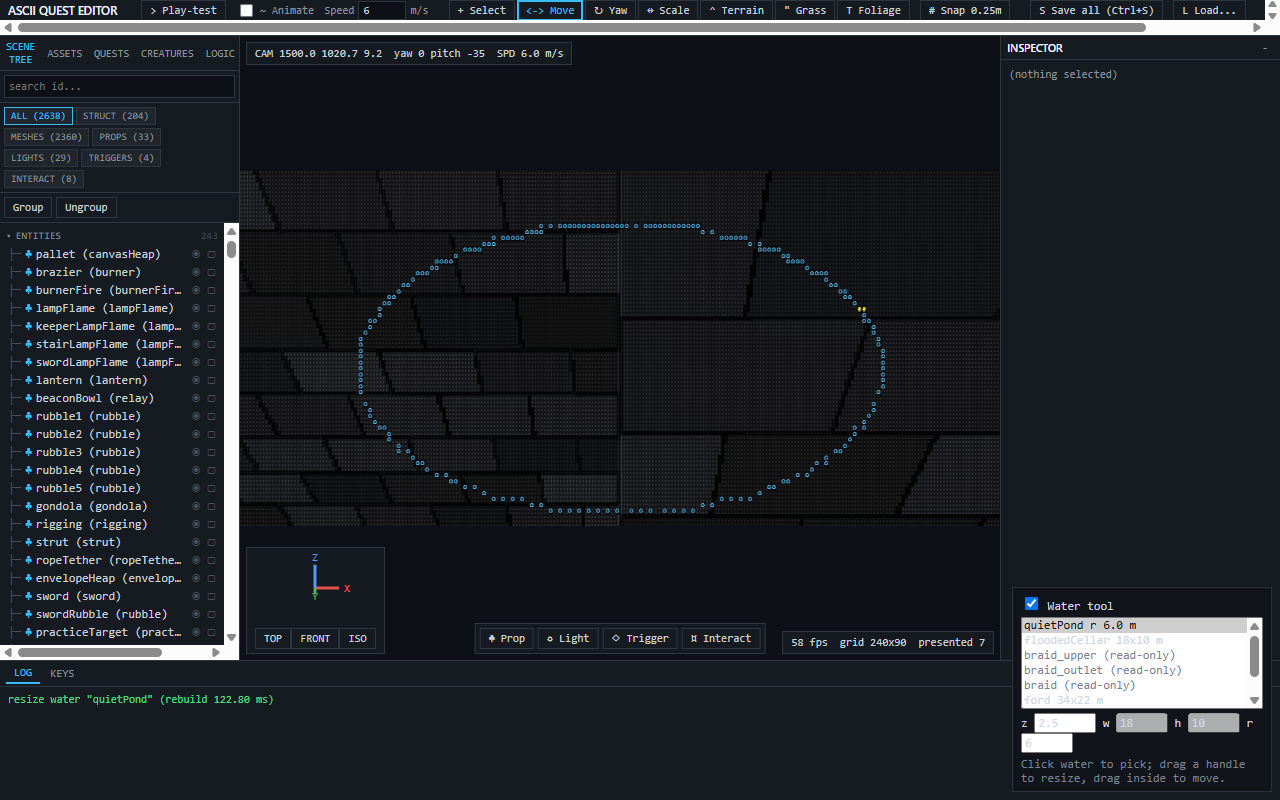
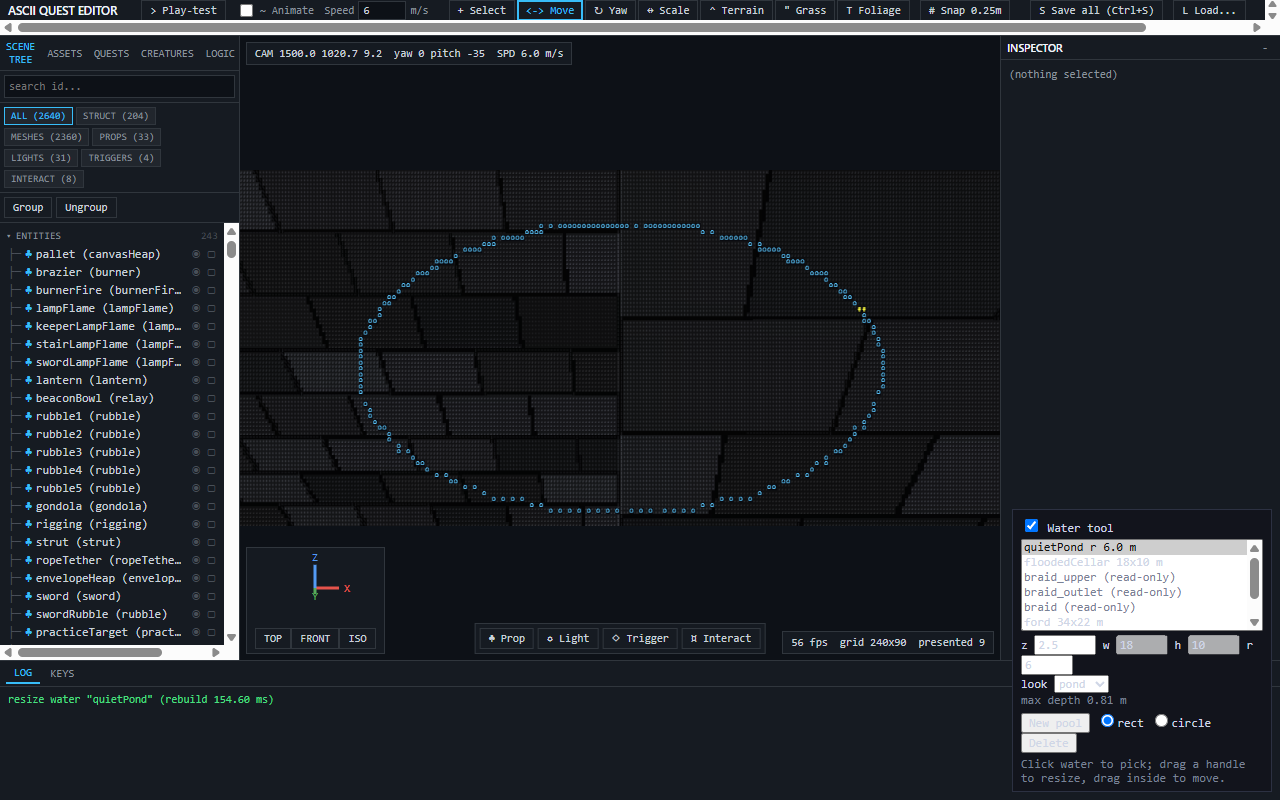
docs: PC-B arch batch (7 OK, 2 changes fixed) + PO batch (19 OK) 2026-10-17, verify stills

Changed region(s): [[0.7812, 0.625, 1.0, 0.9375]]

diff --git a/docs/test-reports/po-batch-2026-10-17-pcb.md b/docs/test-reports/po-batch-2026-10-17-pcb.md
@@ -1,0 +1,21 @@
+# PO batch verdicts - PC-B, 2026-10-17 (sonnet, D-066, claims-only)
+
+1. GRASS-VARIETY-01: PO OK -> testing. Walk: meadows show 3 patch types (low clover with '*' tips, normal, tall '!' seed heads), patches >= ~6 m, no speckle. Owner to-do: `node tools/verify-grassvar.mjs {port}` stills + look/ramp tuning (browser-only).
+2. OB-171 VoxelPool priority: PO OK -> testing. Walk: crowd town (Burl), nearby NPCs/enemies never vanish while far props draw; no cap warning for near ones.
+3. GOB-INVIS enemy bar: PO OK -> testing. Walk: at the OB-218 F3 spot (1091,1083,-79.7) no `Lv 4 Gobl` bar over empty grass. Owner to-do: per-record dump + underwater check not done.
+4. OB-166/OB-014 tolerant load: PO OK -> testing. Walk: game still loads; a bad model id gives one console warn, no crash (strict kept in lint).
+5. TEASER-QA-06 coast LOD: PO OK -> testing (AC deviations accepted by arch: radius 60, jump 55.43 m cliff). Walk: `node tools/teaser-stills.mjs --port {port} --ids teaser-strand-dawn` and judge the coast stairs. NOTE: commit only on k1/coastlod, must be merged to pc-b first.
+6. OB-215 Burl legs: PO OK -> testing. Walk: watch Burl walk home within 35 m; legs animate. Probe `node tools/probe-burl-legs.mjs {port}` (189/189 frames).
+7. OB-220b accept facts + Lamps on the Verge zone: PO OK -> testing. Walk: accept "Lamps on the Verge" from Joss: quest must not finish at once; walk to the lamps (zone r 14). Owner to-do: check lamp positions vs r 14 in game.
+8. OB-221 journal Main/Side: PO OK -> testing. Walk: J shows gold "Main" and blue "Side" headings, main first; headings not selectable. Also confirm Enter-after-tap input fix (ob221b) on 8000. Browser look not checked.
+9. OB-219 abandon by mouse: PO OK -> testing. Walk: J, click Abandon on sq.packet (click-click) -> quest returns to available, pin cleared. Owner to-do: check the new 400x150 intro slide overlay look.
+10. OB-217 fireball out of the pack: PO OK -> testing. Walk: new game pack has no locked fireball; unlock magic -> fireball lands in off hand; load an old save, stray cell gone. Node only, browser unverified.
+11. OB-223 + ED-WATER-02 editor water tool: PO OK -> testing. Walk: editor Water tool: select/resize a pool, New pool, Delete (2-click), undo each. Owner to-do: `node tools/verify-editor-water.mjs {port}` (browser path never run).
+12. ED-QUI-10 branch edit: PO OK -> testing. Walk: quest editor dialogue: edit choice text (n/38), GOTO select, flag; dangling GOTO refused. Owner to-do: `node tools/verify-edqui-10.mjs {port}`; CSS for .q-btext-in/.q-bgoto/.q-bflag untuned (cosmetic).
+13. ED-QUI-09 quest-sim --all: PO OK -> testing. Walk: `node tools/quest-sim.mjs --all` -> `88 quest(s): 88 PASS, 0 FAIL`, exit 1 on a broken fixture.
+14. QUEST-WRITER-BATCH-01 (R19 119 -> 0): PO OK -> testing (main session correction: writer batches 1-3 landed, R19_ALLOW empty, validate-content R19 0 hits; the PO read a stale lane entry). Walk: open J, every journal line fits one row.
+15. OB-155 lint + VISQA-13 interior moss: PO OK -> testing. Walk: crypt, ford cellar, goblin tunnel, bear den have no green moss on rocks/pebbles. R2 3 -> 0 and R1=0 accepted. Open, not blockers: R9 left 3 (wardens) plus the ow chain in R9_OK (PO confirms: accepted, wolves at band 6 are fine); R17 m1 legacy.
+16. OB-142 ford boars: PO OK -> testing. Walk: go down to the ford by normal start (not a ?at link): >= 3 boars within ~60 m (rule fordBoars).
+17. VISQA-28 sea cave lights: PO OK -> testing, with caveat. Walk: strand_cave shows two low raking lights. Owner to-do: GI zone g4_9 is stale (needs tools/bake-gi.mjs, not run) and stills `node tools/verify-visqa12-28-08.mjs {port}` not run; also check for the "MAX_LIGHTS reached" warning.
+18. OB-214 falls pool: PO OK -> testing. Walk: `node tools/teaser-stills.mjs --port {port} --ids teaser-river-falls`: waterfall sheet no wider than the pool, east edge no longer lands on grass. Owner decides (a) vs (b); GI for the zone stale.
+19. REPORT-KEY-01 F8 snapshot: PO OK -> testing. Walk: press F8 in game: toast "Bug snapshot copied", paste shows `KESTREL ... pos ... | clock | quality ...`. Browser path unrun; debug god mode moved to Shift+F8.

diff --git a/docs/test-reports/visqa/index.md b/docs/test-reports/visqa/index.md
@@ -8,7 +8,7 @@
 | meadow-road | 1440,1040 yaw 270 pitch 0 - start meadow, road west | - | - | - |
 | forest-in | 1250,1062 yaw 270 pitch 0 - densest tree cell (41..42,35) | - | - | - |
 | forest-edge | 1172,1044 yaw 90 pitch 0 - QL-B2 forestEdge zone, looking into the forest | - | - | - |
-| ford | 1010,1072 yaw 90 pitch 0 - fordWest, across the stepping stones | - | - | - |
+| ford | 1010,1072 yaw 90 pitch 0 - fordWest, across the stepping stones | ![ford-09.png](ford-09.png) | ![ford-13.png](ford-13.png) | - |
 | bend | 1262,1042 yaw 0 pitch 0 - Bend relay/waystone | - | - | - |
 | cemetery | 1644,1382 yaw 0 pitch 0 - cemetery1 | - | - | - |
 | braid-falls | 1238,632 yaw 0 pitch 12 - braidFalls from below | - | - | - |
@@ -28,11 +28,11 @@
 | ![s2-sea-cave.png](s2-sea-cave.png) | 1618.5,1729.5 z -95.31 (now -95.31) yaw 0 | Strand sea cave chamber from the south mouth |
 | ![s2-goblin-tunnel.png](s2-goblin-tunnel.png) | 944.5,945.5 z -88.8 (now -88.8) yaw 315 | VISQA-31: goblin tunnel room from its SE corner (level 21,31.5) looking NW at torchRoom (level 16.5,27.5) |
 | ![s2-bear-den.png](s2-bear-den.png) | 1584,437 z 11.76 (now 11.76) yaw 0 | northwood bear den chamber from the mouth side (no lights in level) |
-| ![s2-burl.png](s2-burl.png) | in place, camera 1474,1028,2,255 model bear yaw 75 at 1471.0,1029.1 z 2.4 | Burl (npc bear) |
-| ![s2-rook.png](s2-rook.png) | in place, camera 982,1057,-86,180 model crow yaw 270 at 982.0,1060.0 z -86.4 | Rook (perched crow, on the Ford ruin crate; seen from the side, his front faces the ruin wall) |
+| ![s2-burl.png](s2-burl.png) | in place, camera 1474,1028,0,255 model bear yaw 75 at 1471.0,1029.1 z 2.4 | Burl (npc bear) |
+| ![s2-rook.png](s2-rook.png) | in place, camera 979,1060,-87,90 model crow yaw 270 at 982.0,1060.0 z -86.4 | Rook (perched crow, on the Ford ruin crate; seen from the side, his front faces the ruin wall) |
 | ![s2-warden.png](s2-warden.png) | model char.kit cam 1440.0,1040.0 subject 1436.5,1040.0 z 1.3 yaw 90 (home 1669,629,-50,141) | region warden (char.kit) |
-| ![s2-boar.png](s2-boar.png) | model boarPlaceholder cam 1440.0,1040.0 subject 1436.5,1040.0 z 1.3 yaw 90 (home 1457,1033,2,46) | first boar |
-| ![s2-wolf.png](s2-wolf.png) | in place, camera 863,1004,-75,301 model wolf yaw 121 at 860.4,1002.2 z -75.2 | first wolf (brain.species wolf / model wolf); wolves live ~600 m west, unbound far from the player, so the camera goes to the wolf |
+| ![s2-boar.png](s2-boar.png) | model boarPlaceholder cam 1440.0,1040.0 subject 1436.5,1040.0 z 1.3 yaw 90 (home 1459,1029,2,152) | first boar |
+| ![s2-wolf.png](s2-wolf.png) | in place, camera 858,997,0,301 model wolf yaw 121 at 855.5,994.8 z -75.2 | first wolf (brain.species wolf / model wolf); wolves live ~600 m west, unbound far from the player, so the camera goes to the wolf |
 | ![s2-skeleton.png](s2-skeleton.png) | model skeleton cam 1440.0,1040.0 subject 1436.5,1040.0 z 1.3 yaw 90 (home 1738,202,211,0) | first surface skeleton (crypt ones do not render when pinned to the meadow) |
 | ![s2-ui-inventory.png](s2-ui-inventory.png) | KeyI | pack (I) |
 | ![s2-ui-character.png](s2-ui-character.png) | KeyC | character / equipment (C) |

diff --git a/docs/test-reports/arch-batch-2026-10-17-pcb.md b/docs/test-reports/arch-batch-2026-10-17-pcb.md
@@ -1,0 +1,13 @@
+# Architect batch review - PC-B, 2026-10-17 (opus, D-066)
+
+check-deps OK (2447 files). All item tests pass, each < 2 s (coastLod run at 7c321827 in a temp worktree: 7/7, 0.9 s).
+
+1. 07219cfd GRASS-VARIETY-01: ARCH OK -> po-review (pure hash/value noise in the class-map job, no WGSL change, validator covers `patch`, test pins determinism + patch size + no speckle)
+2. 2803d74b + 36dcca9f OB-222 far-forest lift: ARCH CHANGES: (1) now default ON, the WGSL on-path has no parity probe - shade.wgsl.test.js's terrain harness only runs with faceK[1].w = 0; add a flag-on probe set (faceK[1].w = 1, su.sunI / su.sunDir.z at noon + dusk, t = 200/350/600 m, forest face) vs shadeTerrain with setFarForest(1) + setFarForestDay(farForestDayOf(sunI, dirZ)), and make it fail if a WGSL FF_ term is mutated; (2) the main session runs `?gpucompare=1` once on the default (ON) path before merge. Twin code, constants and the off byte-identity are otherwise correct; no temporal state.
+3. 5e9c8fd3 + c25cbd33 OB-171 VoxelPool priority/hysteresis: ARCH OK -> po-review (0 alloc test, jitter-stable set, prioRange opt-in). Advisory: `_voxSel` is one stamp per entity shared by every VoxelPool instance (gameVoxelPool + gpucompare's compareVoxelPool collect the same world); make the stamp per pool (e.g. key from a pool id) in a later touch.
+4. ef5381e1 GOB-INVIS isQueued + combatHud drawn: ARCH OK -> po-review. Advisory: isQueued is a linear scan of raw[] per beast per frame; once 3 is merged it can be O(1) (`e._voxSel === this._selFrame`, per-pool stamp).
+5. f119aa15 SPELL-R7 telekinesis lv3: ARCH CHANGES: (1) saveSim/loadSim do not carry sim.spell.held/flyT/p but do save state[] = STATE_HELD/THROWN -> a snapshot taken mid-hold loads a beast stuck in 25/26 forever (skipped by every pass, held = -1); either save/load the spell block or map 25/26 -> stagger on load; add a round-trip test (hold, save, load, step -> beast leaves 25/26); (2) holdStep allocates a closure `c = (v, m) => ...` every step of a roller hold - hoist it to module scope (rule 15, 0 alloc per step).
+6. 2bd9b0fc OB-166/OB-014 tolerant World.load / bindScatterInstances: ARCH OK -> po-review (strict kept for content-lint + content-smoke, warn once, test covers skip count + strict throw)
+7. 7c321827 TEASER-QA-06 coast LOD1: ARCH OK -> po-review; AC deviations accepted: radius 60 (150 busts the 1.5x LOD1 vertex budget, x1.76), max jump 55.43 m is the terrain's own cliff at 16 m spacing (28.4 m at 8 m). Build-time only, recipe-driven `geo.farDetail`, engine stays game-agnostic, off-coast tiles hash-identical. Note: commit is only on k1/coastlod, not yet in pc-b.
+8. 56b41f42 OB-215 beastLegs NPC reserve: ARCH OK -> po-review. Advisory: beastsAttached() scans slot[] on every attach attempt of an unattached beast while capped; keep a running beast-attached counter instead.
+9. edcc844b OB-220b questBook.accept + pollAreas per entry: ARCH OK -> po-review (game-only; edge-triggered insideAreas cleared on reset; e2e enters via out->in; giver/zone guard test)
